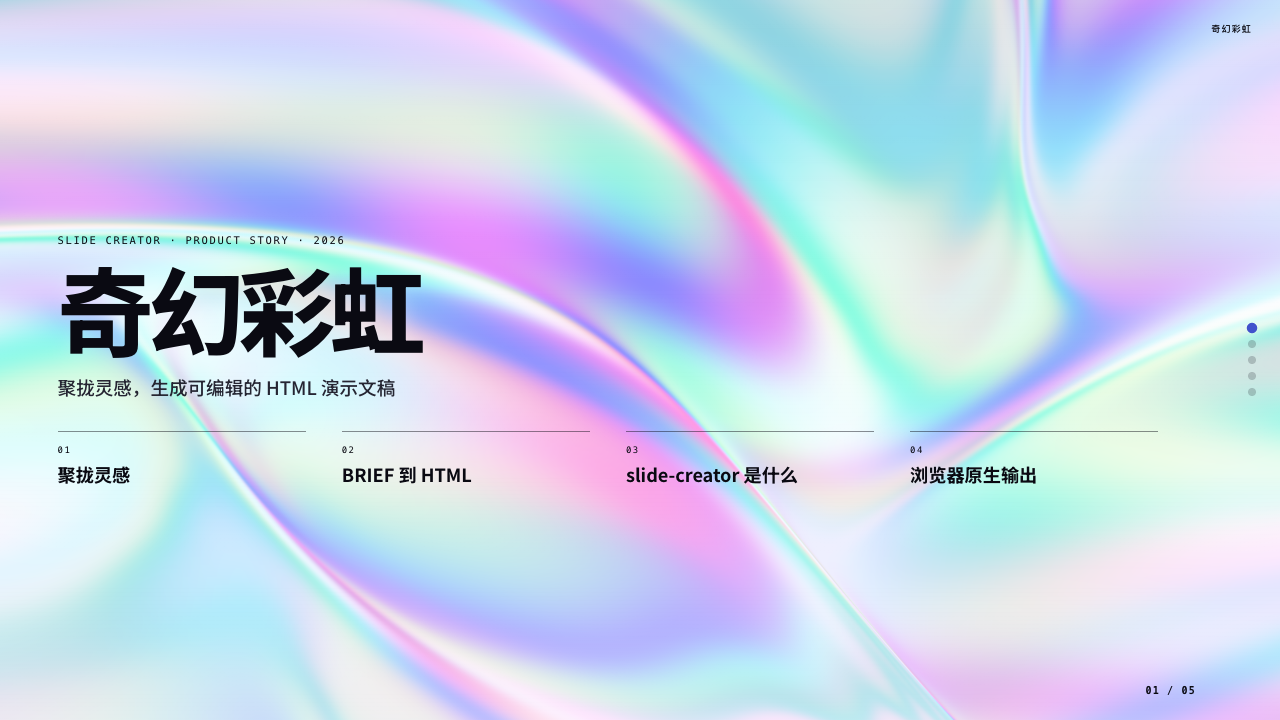
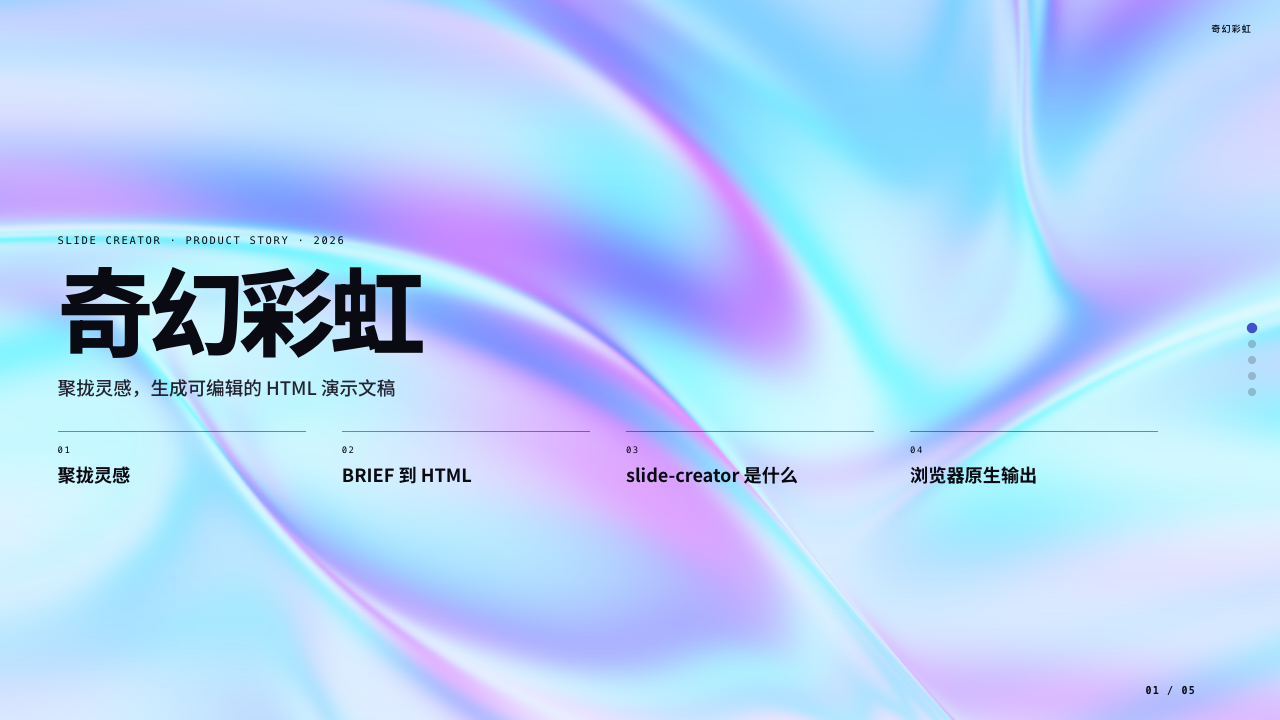
style: cool Fantasy Rainbow color balance

diff --git a/themes/fantasy-rainbow/starter.html b/themes/fantasy-rainbow/starter.html
@@ -36,8 +36,8 @@ body {
   background-color: #eef7ff;
   background-image:
     linear-gradient(156deg, rgba(87, 229, 233, .88) 0%, rgba(87, 229, 233, 0) 36%),
-    linear-gradient(28deg, rgba(255, 110, 221, .82) 2%, rgba(255, 110, 221, 0) 45%),
-    linear-gradient(122deg, rgba(125, 112, 255, .80) 12%, rgba(255, 255, 255, .28) 44%, rgba(83, 222, 212, .76) 76%, rgba(255, 148, 229, .72) 100%);
+    linear-gradient(28deg, rgba(167, 108, 255, .48) 2%, rgba(167, 108, 255, 0) 34%),
+    linear-gradient(122deg, rgba(125, 112, 255, .80) 12%, rgba(255, 255, 255, .28) 44%, rgba(83, 222, 212, .76) 76%, rgba(151, 122, 255, .52) 100%);
   font-family: var(--iri-display);
   -webkit-font-smoothing: antialiased;
   scroll-snap-type: y mandatory;
@@ -493,6 +493,11 @@ body:hover #present-btn { opacity: 1; pointer-events: auto; }
         "d+=uTime*0.5;",
         "vec3 col=vec3(cos(uv*vec2(d,a))*0.6+0.4,cos(a+d)*0.5+0.5);",
         "col=cos(col*cos(vec3(d,a,2.5))*0.5+0.5)*vec3(0.9843137,0.9921569,1.0);",
+        "vec3 balanced=col;",
+        "balanced.r=col.r*0.82+col.b*0.04;",
+        "balanced.g=col.g*0.98;",
+        "balanced.b=min(1.0,col.b*1.08+col.r*0.16);",
+        "col=balanced;",
         "gl_FragColor=vec4(col,1.0);",
         "}"
       ].join("\n");

diff --git a/demos/fantasy-rainbow-en.html b/demos/fantasy-rainbow-en.html
@@ -36,8 +36,8 @@ body {
   background-color: #eef7ff;
   background-image:
     linear-gradient(156deg, rgba(87, 229, 233, .88) 0%, rgba(87, 229, 233, 0) 36%),
-    linear-gradient(28deg, rgba(255, 110, 221, .82) 2%, rgba(255, 110, 221, 0) 45%),
-    linear-gradient(122deg, rgba(125, 112, 255, .80) 12%, rgba(255, 255, 255, .28) 44%, rgba(83, 222, 212, .76) 76%, rgba(255, 148, 229, .72) 100%);
+    linear-gradient(28deg, rgba(167, 108, 255, .48) 2%, rgba(167, 108, 255, 0) 34%),
+    linear-gradient(122deg, rgba(125, 112, 255, .80) 12%, rgba(255, 255, 255, .28) 44%, rgba(83, 222, 212, .76) 76%, rgba(151, 122, 255, .52) 100%);
   font-family: var(--iri-display);
   -webkit-font-smoothing: antialiased;
   scroll-snap-type: y mandatory;
@@ -950,6 +950,11 @@ new PresentMode(new SlidePresentation());
         "d+=uTime*0.5;",
         "vec3 col=vec3(cos(uv*vec2(d,a))*0.6+0.4,cos(a+d)*0.5+0.5);",
         "col=cos(col*cos(vec3(d,a,2.5))*0.5+0.5)*vec3(0.9843137,0.9921569,1.0);",
+        "vec3 balanced=col;",
+        "balanced.r=col.r*0.82+col.b*0.04;",
+        "balanced.g=col.g*0.98;",
+        "balanced.b=min(1.0,col.b*1.08+col.r*0.16);",
+        "col=balanced;",
         "gl_FragColor=vec4(col,1.0);",
         "}"
       ].join("\n");

diff --git a/demos/fantasy-rainbow-zh.html b/demos/fantasy-rainbow-zh.html
@@ -36,8 +36,8 @@ body {
   background-color: #eef7ff;
   background-image:
     linear-gradient(156deg, rgba(87, 229, 233, .88) 0%, rgba(87, 229, 233, 0) 36%),
-    linear-gradient(28deg, rgba(255, 110, 221, .82) 2%, rgba(255, 110, 221, 0) 45%),
-    linear-gradient(122deg, rgba(125, 112, 255, .80) 12%, rgba(255, 255, 255, .28) 44%, rgba(83, 222, 212, .76) 76%, rgba(255, 148, 229, .72) 100%);
+    linear-gradient(28deg, rgba(167, 108, 255, .48) 2%, rgba(167, 108, 255, 0) 34%),
+    linear-gradient(122deg, rgba(125, 112, 255, .80) 12%, rgba(255, 255, 255, .28) 44%, rgba(83, 222, 212, .76) 76%, rgba(151, 122, 255, .52) 100%);
   font-family: var(--iri-display);
   -webkit-font-smoothing: antialiased;
   scroll-snap-type: y mandatory;
@@ -950,6 +950,11 @@ new PresentMode(new SlidePresentation());
         "d+=uTime*0.5;",
         "vec3 col=vec3(cos(uv*vec2(d,a))*0.6+0.4,cos(a+d)*0.5+0.5);",
         "col=cos(col*cos(vec3(d,a,2.5))*0.5+0.5)*vec3(0.9843137,0.9921569,1.0);",
+        "vec3 balanced=col;",
+        "balanced.r=col.r*0.82+col.b*0.04;",
+        "balanced.g=col.g*0.98;",
+        "balanced.b=min(1.0,col.b*1.08+col.r*0.16);",
+        "col=balanced;",
         "gl_FragColor=vec4(col,1.0);",
         "}"
       ].join("\n");

diff --git a/tests/test_fantasy_rainbow_theme.py b/tests/test_fantasy_rainbow_theme.py
@@ -247,6 +247,27 @@ def test_iridescence_restrained_accent_palette_contract():
     assert "Content pages remain opaque white" in reference
 
 
+def test_iridescence_cover_rebalances_warm_pink_into_cool_purple():
+    starter = STARTER.read_text(encoding="utf-8")
+    reference = REFERENCE.read_text(encoding="utf-8")
+
+    for signature in (
+        "vec3 balanced=col;",
+        "balanced.r=col.r*0.82+col.b*0.04;",
+        "balanced.g=col.g*0.98;",
+        "balanced.b=min(1.0,col.b*1.08+col.r*0.16);",
+        "col=balanced;",
+    ):
+        assert signature in starter
+
+    assert "rgba(255, 110, 221, .82)" not in starter
+    assert "rgba(167, 108, 255, .48)" in starter
+    assert "rgba(167, 108, 255, 0) 34%" in starter
+    assert "--ic-violet: #A76CFF" in reference
+    assert "--ic-pink: var(--ic-violet)" in reference
+    assert "cyan-blue → blue-violet → limited pink-violet" in reference
+
+
 def test_iridescence_cover_keyword_veil_is_a_cover_only_soft_bloom():
     starter = STARTER.read_text(encoding="utf-8")
     reference = REFERENCE.read_text(encoding="utf-8")

diff --git a/themes/fantasy-rainbow/reference.md b/themes/fantasy-rainbow/reference.md
@@ -25,13 +25,14 @@ This custom theme is visually derived from the local reference `iridescence-hero
   --ic-text: #0A0A12;
   --ic-blue: #5B6CFF;
   --ic-cyan: #57E5E9;
-  --ic-pink: #FF6EDD;
+  --ic-violet: #A76CFF;
+  --ic-pink: var(--ic-violet);
   --ic-purple: #B995FF;
   --ic-ice: #7D70FF;
 }
 ```
 
-On the cover, cyan, pink, purple, blue, and white bands come from the shared shader rather than component fills. Content pages remain opaque white. On content pages, vivid accents occupy only 10%–15% of the visual surface: ordinary prose remains `--iri-ink`, while small text uses the text-safe `--iri-accent-blue-text`, `--iri-accent-purple-text`, or `--iri-accent-cyan-text` variants rather than vivid blue, purple, or cyan. `--iri-accent-blue-text` is the same-hue accessible blue for white content surfaces (6.36:1 contrast); reserve `--iri-accent-blue` for large/display accents. The fixed brand mark uses ink on the dynamic cover, text-safe blue on white content pages, and high-contrast light text on the closing page. The closing page uses a near-black surface with high-contrast light type.
+On the cover, cyan-blue → blue-violet → limited pink-violet bands come from the shared shader rather than component fills. Pink-violet is a small transition highlight, not a dominant surface; `--ic-pink` remains only as a compatibility alias for `--ic-violet`. Content pages remain opaque white. On content pages, vivid accents occupy only 10%–15% of the visual surface: ordinary prose remains `--iri-ink`, while small text uses the text-safe `--iri-accent-blue-text`, `--iri-accent-purple-text`, or `--iri-accent-cyan-text` variants rather than vivid blue, purple, or cyan. `--iri-accent-blue-text` is the same-hue accessible blue for white content surfaces (6.36:1 contrast); reserve `--iri-accent-blue` for large/display accents. The fixed brand mark uses ink on the dynamic cover, text-safe blue on white content pages, and high-contrast light text on the closing page. The closing page uses a near-black surface with high-contrast light type.
 
 Accent placement is fixed by page so the deck keeps an editorial rhythm rather than becoming a colored surface: P1 uses blue only for headline `<em>`, while its small label and fact indices remain `--iri-ink` for dynamic-surface contrast; P2 uses a blue fracture scar; P3 outlines `LAST MILE` in blue; P4 uses primary text-safe blue for field numbers and codes; P5 cycles blue, purple, and cyan pipeline tints; P6 uses a vivid blue display total with four small blue/purple/cyan spectrum markers while every spectrum label remains `--iri-ink`; P7 uses primary text-safe blue for contract numbers; P8 cycles gate borders through vivid blue, purple, cyan, and blue, with each `GATE nn` label using the matching text-safe blue, purple, cyan, and blue cycle while gate titles and descriptions remain `--iri-ink`; P9 uses vivid blue for PLAY, vivid purple for EDIT, and text-safe cyan for PRESENT, while keys use primary text-safe blue; P10 uses blue and purple mode numbers; P11 cycles quadrant numbers through text-safe blue, purple, cyan, and blue; and P12 uses blue for closing headline `<em>`. These are semantic anchors only: do not color ordinary paragraphs, `.iri-copy`, or `.iri-scene` backgrounds. Vivid cyan has no generic text helper; it is reserved for marker, border, and tint surfaces.
 
@@ -69,7 +70,7 @@ Legacy `.ic-orbit`, `.ic-prism`, `.ic-hero-metric`, glass cards, technical grids
 
 - Use a single canvas, one `IridescenceController`, and one requestAnimationFrame id.
 - Start the RAF only while the active page is `slide-1`. Leaving the cover hides the canvas and stops the RAF; returning to the cover restores both.
-- Preserve the reference fragment shader: 8 iterations, `uTime * 0.5`, original cosine color field, and direct `gl_FragColor` output.
+- Preserve the reference field geometry: 8 iterations, `uTime * 0.5`, and the original cosine color field. Immediately before direct `gl_FragColor` output, apply only the approved cold-purple RGB balance: red `0.82 + blue 0.04`, green `0.98`, and blue `1.08 + red 0.16` clamped to `1.0`.
 - Do not add luminance lift, `smoothstep` whitening, or `mix(col, vec3(1.0), ...)`.
 - Shader compile or program link failure triggers fallback without hiding content.
 - Handle `webglcontextlost` and `webglcontextrestored`.
@@ -99,7 +100,7 @@ Legacy `.ic-orbit`, `.ic-prism`, `.ic-hero-metric`, glass cards, technical grids
 
 ## Style Preview Checklist
 
-- The first impression is saturated, continuous, full-screen cyan–pink–purple iridescence with large black type.
+- The first impression is saturated, continuous, full-screen cyan-blue and blue-violet iridescence with large black type; pink-violet remains a limited transition highlight.
 - Only the cover shows the light field. Slides 2–11 read as opaque white editorial report pages; slide 12 reads as a dark closing surface.
 - No technical grid, decorative orbit, glass card, pill kicker, high-opacity page background, or shader whitening remains.
 - Adjacent content pages change composition, hierarchy, and text anchoring while retaining a disciplined black-on-white report language.
